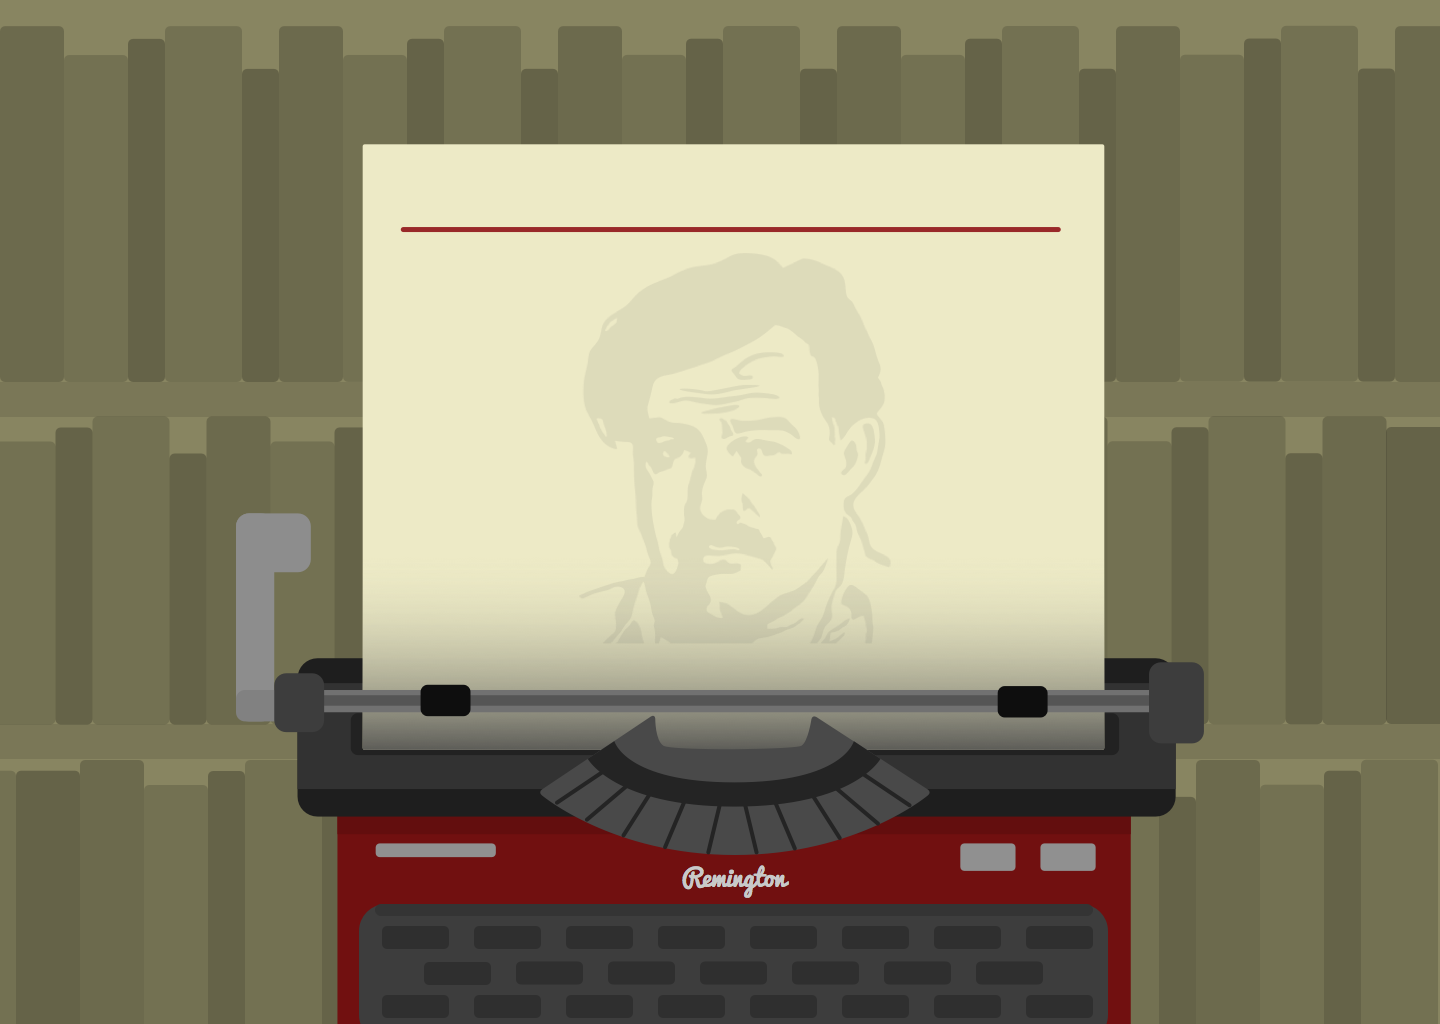
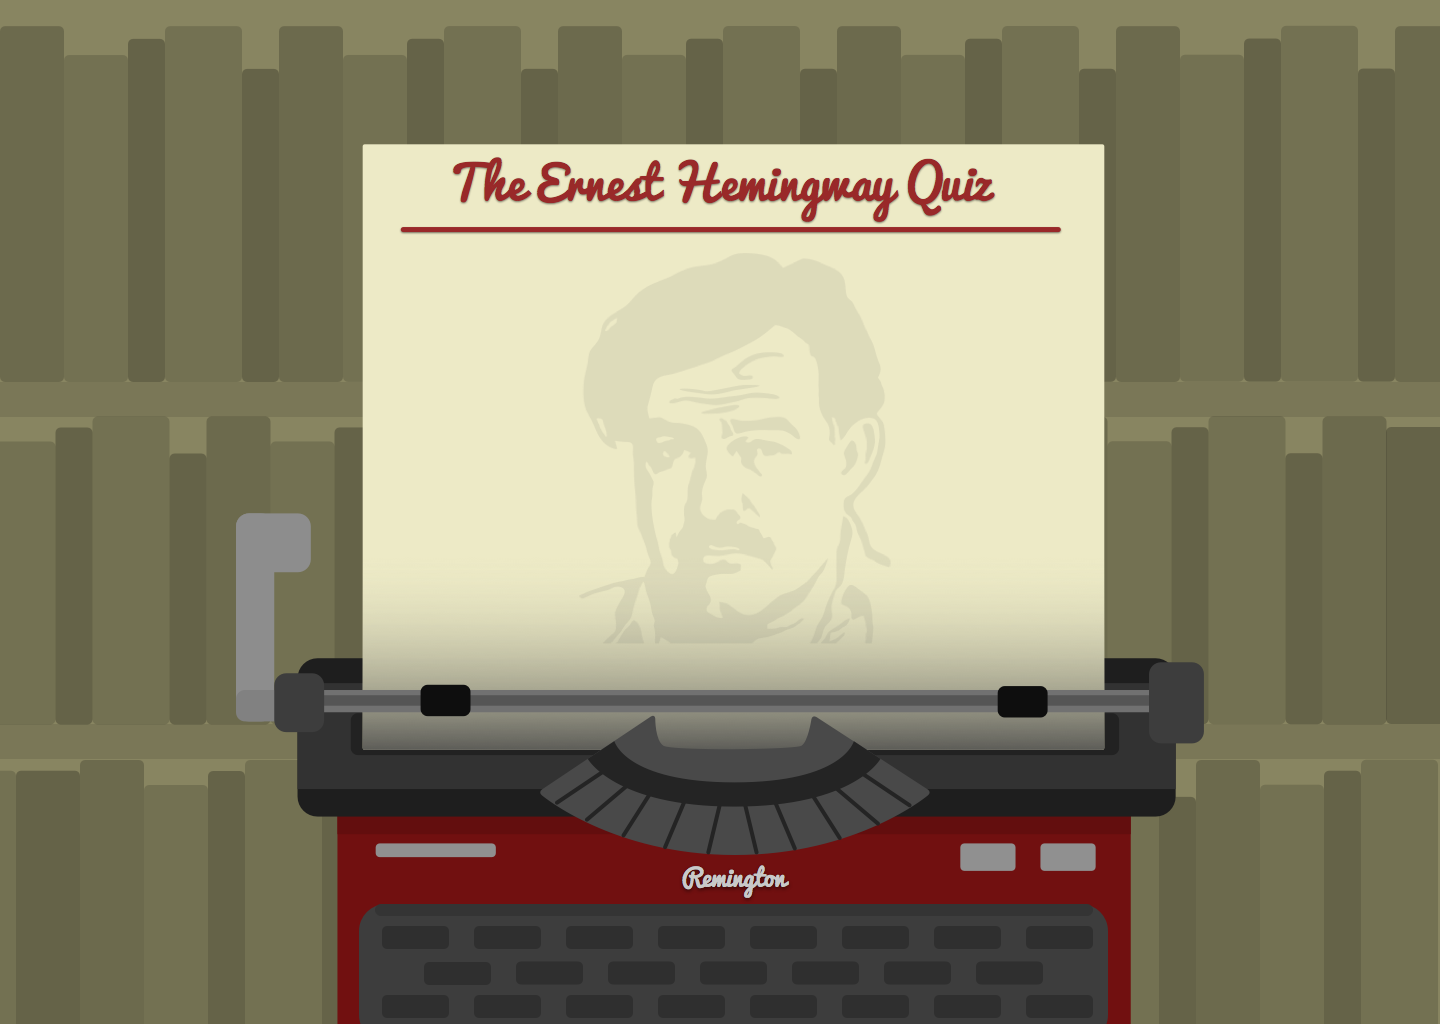
updated css

Changed region(s): [[0.3125, 0.1562, 0.6875, 0.2188]]

diff --git a/css/style.css b/css/style.css
@@ -1,72 +1,142 @@
-html {
-	
-}
-
-body {
-	background: url("../img/hemingwaybackground2.png") no-repeat center center fixed;
+.background {
+	background: url("../img/background-books.png") no-repeat center center fixed;
 	-webkit-background-size: cover;
   	-moz-background-size: cover;
   	-o-background-size: cover;
   	background-size: cover;
-	font-family: 'Special Elite', cursive, sans-serif;
-	min-width: 1100px; 
+	font-family: 'Special Elite', courier, sans-serif;
+	background-attachment: fixed;
+	position: fixed;
+	top: 0;
+	bottom: 0;
+	right: 0;
+	left: 0;
 }
 
 .app {
-
+	background-color: #EDEAC6;
+	background-image: url("img/hemingway-watermark.png");
+	border-radius: 2px;
+	width: 60%;
+	height: 80%;
+	margin-left: auto;
+	margin-right: auto;
+	margin-top: 2%;
+	overflow: hidden;
+	text-align: center;
 }
 
-.title-box {
-	text-align: center;
-	width: 50%;
-	height: 40%;
-	margin-left: 26%;
-	margin-right: 25%;
-	margin-top: 5%;
+.watermark {
+	width: 25%;
+	position: absolute;
+	padding-left: 15%;
+	padding-right: 10%;
+	padding-top: 9%;
 }
 
 .title {
 	font-family: 'Pacifico', cursive, sans-serif;
 	color: #992929;
-	padding-top: 0;
-	margin-top: 0;
+	font-size: 2.2rem;
+	margin-bottom: 0;
+	margin-top: 1%;
+}
+
+.typewriter {
+	width: 80%;
+	margin-top: 28%;
+	margin-left: 9%;
+	margin-right: 10%;
+	top: 0;
+	position: absolute;
+}
+
+.wrong {
+	background-color: #9B3434;
+}
+
+.correct {
+	background-color: #366531;
+}
+
+.to-be-completed {
+	opacity: 0.3;
 }
 
 .question-box {
 	text-align: center;
-	width: 50%;
-	height: 10%;
-	margin-left: 26%;
-	margin-right: 25%;
-	margin-top: 0;
+	width: 95%;
+	height: 12%;
+	margin-left: 2%;
+	margin-right: 10%;
+	margin-top: -1%;
+	vertical-align: center;
 }
 
 .question {
 	color: #2F2F2F;
-	font-size: 2.5vw;
+	font-size: 1.5rem;
 }
 
 .answer-box {
 	text-align: center;
-	width: 50%;
-	margin-left: 26%;
-	margin-right: 25%;
+	margin-top: 2%;
+	width: 100%;
 }
-
+.answers {
+	margin-top: 0;
+}
 .answers li {
 	color: #484848;
-	font-size: 1.5rem;
+	font-size: 1.2rem;
 	list-style: none;
-	padding: 0.5rem;
+	padding:;
 	margin-bottom: 0.75rem;
+}
+
+.progress-box {
+	text-align: center;
+	width: 100%;
+	height: 10%;
+	margin-left: -3%;
+	margin-right: -2%;
+	margin-top: 1%;
+	margin-bottom: 0;
+}
+
+.progress {
+	margin: 0;
+}
+
+.progress li {
+	display: inline-block;
+	list-style: none;
+	padding: 3px 7px;
+	font-size: 1rem;
+	color: #2F2F2F;
+	border: 2px solid #2F2F2F;
+	margin-left: 2%;
+	vertical-align: middle;
+	border-radius: 30px;
+}
+
+.progress button {
+	border: none;
+	background-color: #EDEAC6;
+}
+
+.progress button:hover {
+	cursor: pointer;
+	background-color: #BEBC9D;
+	color: #fff;
 }
 
 .quote-box {
 	text-align: center;
-	width: 50%;
-	margin-top: 2%;
-	margin-left: 26%;
-	margin-right: 25%;
+	width: 95%;
+	margin-top: -3%;
+	margin-left: 3%;
+	margin-right: 5%;
 }
 
 .quote {

diff --git a/index.html b/index.html
@@ -11,24 +11,36 @@
 	<script src="js/app.js"></script>
 </head>
 <body>
-	<div class="app">
-		<div class="title-box">
+	<div class="background">
+		<div class="app">
+			<img class="watermark" src="img/hemingway-watermark.png" alt="hemingway watermark">
 			<h1 class="title">The Ernest Hemingway Quiz</h1>
+			<div class="question-box">
+				<h2 class="question">Where and when was Hemingway born?</h2>
+			</div>
+			<div class="answer-box">
+				<ul class="answers">
+					<li><input type="radio" name="answer-choice" value="Ketchum"> Ketchum, ID in 1905</li>
+					<li><input type="radio" name="answer-choice" value="Oak-Park"> Oak Park, IL in 1899</li>
+					<li><input type="radio" name="answer-choice" value="Havana"> Havana, Cuba in 1912</li>
+					<li><input type="radio" name="answer-choice" value="Chicago"> Chicago, IL in 1895</li>
+				</ul>
+			</div>
+			<div class="progress-box">
+				<ul class="progress">
+					<li class="submit"><button>SUBMIT?</button></li>
+					<li class="correct">1</li>
+					<li class="wrong">2</li>
+					<li class="current">3</li>
+					<li class="to-be-completed">4</li>
+					<li class="to-be-completed">5</li>
+				</ul>
+			</div>
+			<div class="quote-box">
+				<p class="quote">"Happiness in intelligent people is the rarest thing I know."</p>
+			</div>
 		</div>
-		<div class="question-box">
-			<h2 class="question">Where and when was Hemingway born?</h2>
-		</div>
-		<div class="answer-box">
-			<ul class="answers">
-				<li><input type="radio" name="answer-choice" value="Ketchum"> Ketchum, ID in 1905</li>
-				<li><input type="radio" name="answer-choice" value="Oak-Park"> Oak Park, IL in 1899</li>
-				<li><input type="radio" name="answer-choice" value="Havana"> Havana, Cuba in 1912</li>
-				<li><input type="radio" name="answer-choice" value="Chicago"> Chicago, IL in 1895</li>
-			</ul>
-		</div>
-		<div class="quote-box">
-			<p class="quote">"Happiness in intelligent people is the rarest thing I know."</p>
-		</div>
+		<img class="typewriter" src="img/typewriter.png" alt="typewriter">
 	</div>
 </body>
 </html>
